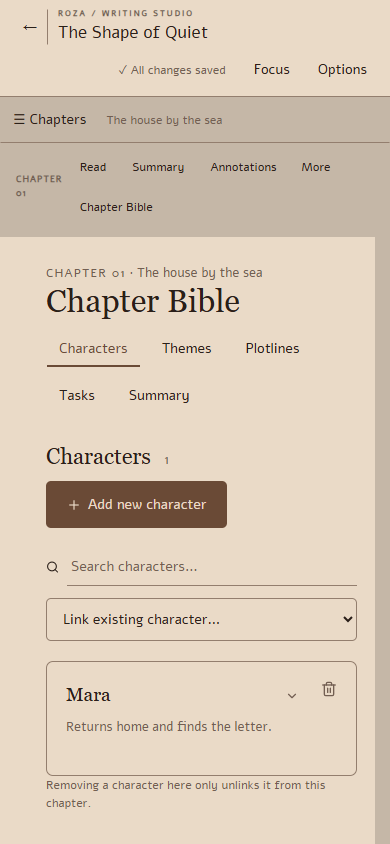
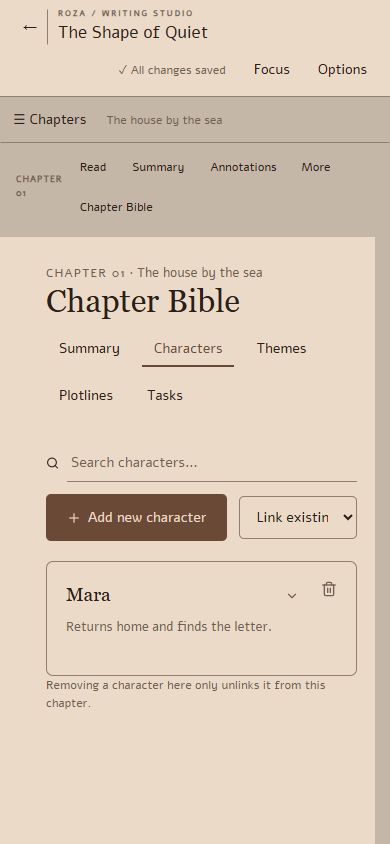
Align chapter element search, create and link controls in one row

diff --git a/frontend/src/components/WritingStudio/ChapterElements.tsx b/frontend/src/components/WritingStudio/ChapterElements.tsx
@@ -58,16 +58,7 @@ export function ChapterElements({
   }
   return (
     <div className={`cp-elements cp-elements-${kind}`}>
-      <header className="cp-elements-header">
-        <button
-          className="ws-primary"
-          onClick={() => setCreating(value => !value)}
-          aria-expanded={creating}
-        >
-          <FiPlus aria-hidden="true" /> Add new {singular}
-        </button>
-      </header>
-      <div className="cp-elements-tools">
+      <header className="cp-elements-header cp-elements-tools">
         <label className="cp-elements-search">
           <FiSearch aria-hidden="true" />
           <input
@@ -78,6 +69,13 @@ export function ChapterElements({
             onChange={e => setSearch(e.target.value)}
           />
         </label>
+        <button
+          className="ws-primary"
+          onClick={() => setCreating(value => !value)}
+          aria-expanded={creating}
+        >
+          <FiPlus aria-hidden="true" /> Add new {singular}
+        </button>
         {!!available.length && (
           <select
             aria-label={`Associate ${kind} with chapter`}
@@ -98,7 +96,7 @@ export function ChapterElements({
             ))}
           </select>
         )}
-      </div>
+      </header>
       {creating && (
         <form
           className="cp-element-create"

diff --git a/frontend/src/components/WritingStudio/chapterPlanning.css b/frontend/src/components/WritingStudio/chapterPlanning.css
@@ -442,4 +442,27 @@
   box-shadow: inset 0 -2px 0 var(--ws-accent);
 }
 
-.cp-elements-header { justify-content: flex-end; }
+.cp-elements-header {
+  justify-content: flex-end;
+}
+.cp-elements-tools > button {
+  flex-shrink: 0;
+  white-space: nowrap;
+}
+.cp-elements-tools > select {
+  flex: 0 1 260px;
+}
+@media (max-width: 600px) {
+  .cp-elements-tools {
+    flex-direction: row;
+    flex-wrap: wrap;
+    align-items: center;
+  }
+  .cp-elements-tools .cp-elements-search {
+    flex-basis: 100%;
+  }
+  .cp-elements-tools > select {
+    flex: 1;
+    width: auto;
+  }
+}
